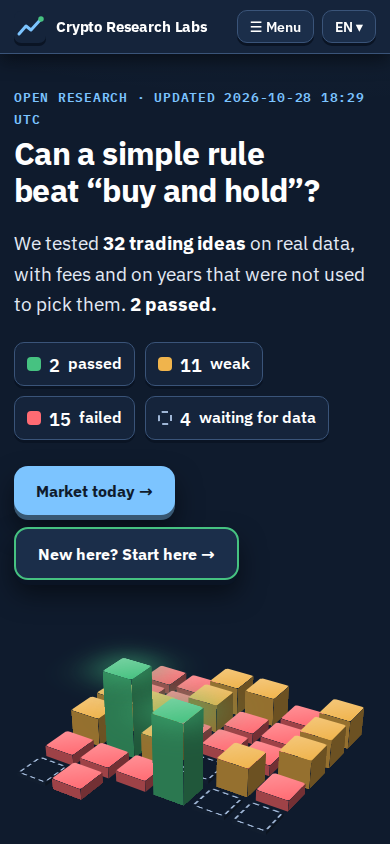
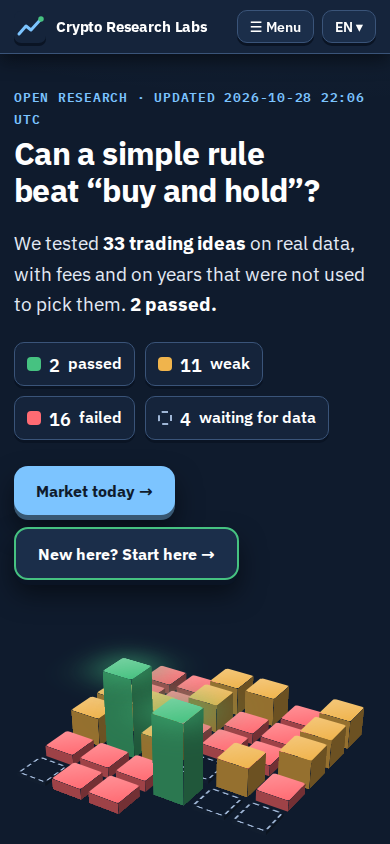
chore(results): scheduled run 2026-10-28

diff --git a/reports/runs/2026-10-28.md b/reports/runs/2026-10-28.md
@@ -1,11 +1,11 @@
 # Run 2026-10-28
 
-### ❌ H-032 — Gate.io EVER 'smart wallets': deposits of wallets picked on 2022-23 foretell 7-day drops better than random wallets
+### ❌ H-033 — Gate.io GRAM 'smart wallets': deposits of $500+ by wallets picked on 2023-24 foretell 7-day drops better than random wallets
 
-Verdict **FAIL** · data to 2026-10-27 · engine 0.4.0 · run 2026-10-28T18:29:12Z
+Verdict **FAIL** · data to 2026-10-27 · engine 0.4.0 · run 2026-10-28T22:06:00Z
 
-17 smart wallets of 85; from 2024-01-01 their 33 deposits were followed by a mean 7-day log return of -0.0152 vs -0.0378 for random matched wallets (p = 0.931, need p < 0.05); exit rule Sharpe -0.19 vs hold -0.08
+36 smart wallets of 183; from 2025-01-01 their 144 deposits were followed by a mean 7-day log return of -0.0050 vs -0.0196 for random matched wallets (p = 0.768, need p < 0.05); exit rule Sharpe -1.80 vs hold -0.71
 
-- selection: start 2022-01-01, end 2023-12-24, wallets 85, smart 17, events 889, all_mean -0.031265, smart_mean -0.091038
-- test: start 2024-01-01, end 2026-10-20, events 33, smart 6, smart_mean -0.015217, random_mean -0.037752, p 0.931069, win False
-- rule: days 1031, start 2024-01-01, end 2026-10-27, sharpe -0.19465, cagr -0.728629, max_dd -0.983594, hold_sharpe -0.082789, hold_cagr -0.721211, hold_max_dd -0.989911, exposure 0.807953, trades_per_year 7.080504, p 0.657171, beats_hold False, win False
+- selection: start 2023-03-13, end 2024-12-24, wallets 183, smart 36, events 1565, all_mean 0.013326, smart_mean -0.039224
+- test: start 2025-01-01, end 2026-10-20, events 144, smart 12, smart_mean -0.004982, random_mean -0.01964, p 0.768232, win False
+- rule: days 665, start 2025-01-01, end 2026-10-27, sharpe -1.800317, cagr -0.382399, max_dd -0.591485, hold_sharpe -0.709164, hold_cagr -0.560568, hold_max_dd -0.792826, exposure 0.160902, trades_per_year 12.075188, p 0.934533, beats_hold False, win False

diff --git a/reports/RESULTS.md b/reports/RESULTS.md
@@ -36,3 +36,4 @@ Generated by `crl run`. Status reflects the latest verdict; historical F1MEBOT s
 | H-030 | registered | forecast | Live replication of H-028: daily forecasts of bigger-than-usual moves, published before 12:00 UTC | — |  |
 | H-031 | registered | forecast | Live: an improved daily model (coin-specific levels, recalibrated) gives each coin's chance of rising above fees better than its base rate | — |  |
 | H-032 | rejected | flows | Gate.io EVER 'smart wallets': deposits of wallets picked on 2022-23 foretell 7-day drops better than random wallets | 2026-10-28 | 17 smart wallets of 85; from 2024-01-01 their 33 deposits were followed by a mean 7-day log return of -0.0152 vs -0.0378 for random matched wallets (p = 0.931, need p < 0.05); exit rule Sharpe -0.19 vs hold -0.08 |
+| H-033 | rejected | flows | Gate.io GRAM 'smart wallets': deposits of $500+ by wallets picked on 2023-24 foretell 7-day drops better than random wallets | 2026-10-28 | 36 smart wallets of 183; from 2025-01-01 their 144 deposits were followed by a mean 7-day log return of -0.0050 vs -0.0196 for random matched wallets (p = 0.768, need p < 0.05); exit rule Sharpe -1.80 vs hold -0.71 |

diff --git a/reports/COVERAGE.md b/reports/COVERAGE.md
@@ -1,6 +1,6 @@
 # Coverage scan: every tested rule on every coin
 
-Generated 2026-10-28T18:29:21Z · window 2022-01-01 → latest · fees included · Benjamini-Hochberg FDR q = 0.1 over 156 cells.
+Generated 2026-10-28T22:06:09Z · window 2022-01-01 → latest · fees included · Benjamini-Hochberg FDR q = 0.1 over 156 cells.
 
 Exploratory, not verdicts. ✅ beats buy-and-hold and survives the false-discovery control; ↑ better Sharpe than holding but could be chance; ✗ worse than holding; — not enough data. **Bold** = the coin was in the original hypothesis. A ✅ on a new coin is a candidate for a new pre-registered hypothesis tested on future data.
 

diff --git a/reports/data_health.md b/reports/data_health.md
@@ -1,6 +1,6 @@
 # Data health
 
-Checked 2026-10-28 18:29 UTC
+Checked 2026-10-28 22:05 UTC
 
 | source | files | missing | errors |
 |---|---|---|---|

diff --git a/reports/regime.md b/reports/regime.md
@@ -1,6 +1,6 @@
 # Regime watch
 
-Updated 2026-10-28 18:29 UTC
+Updated 2026-10-28 22:05 UTC
 
 | monitor | value | band |
 |---|---|---|
